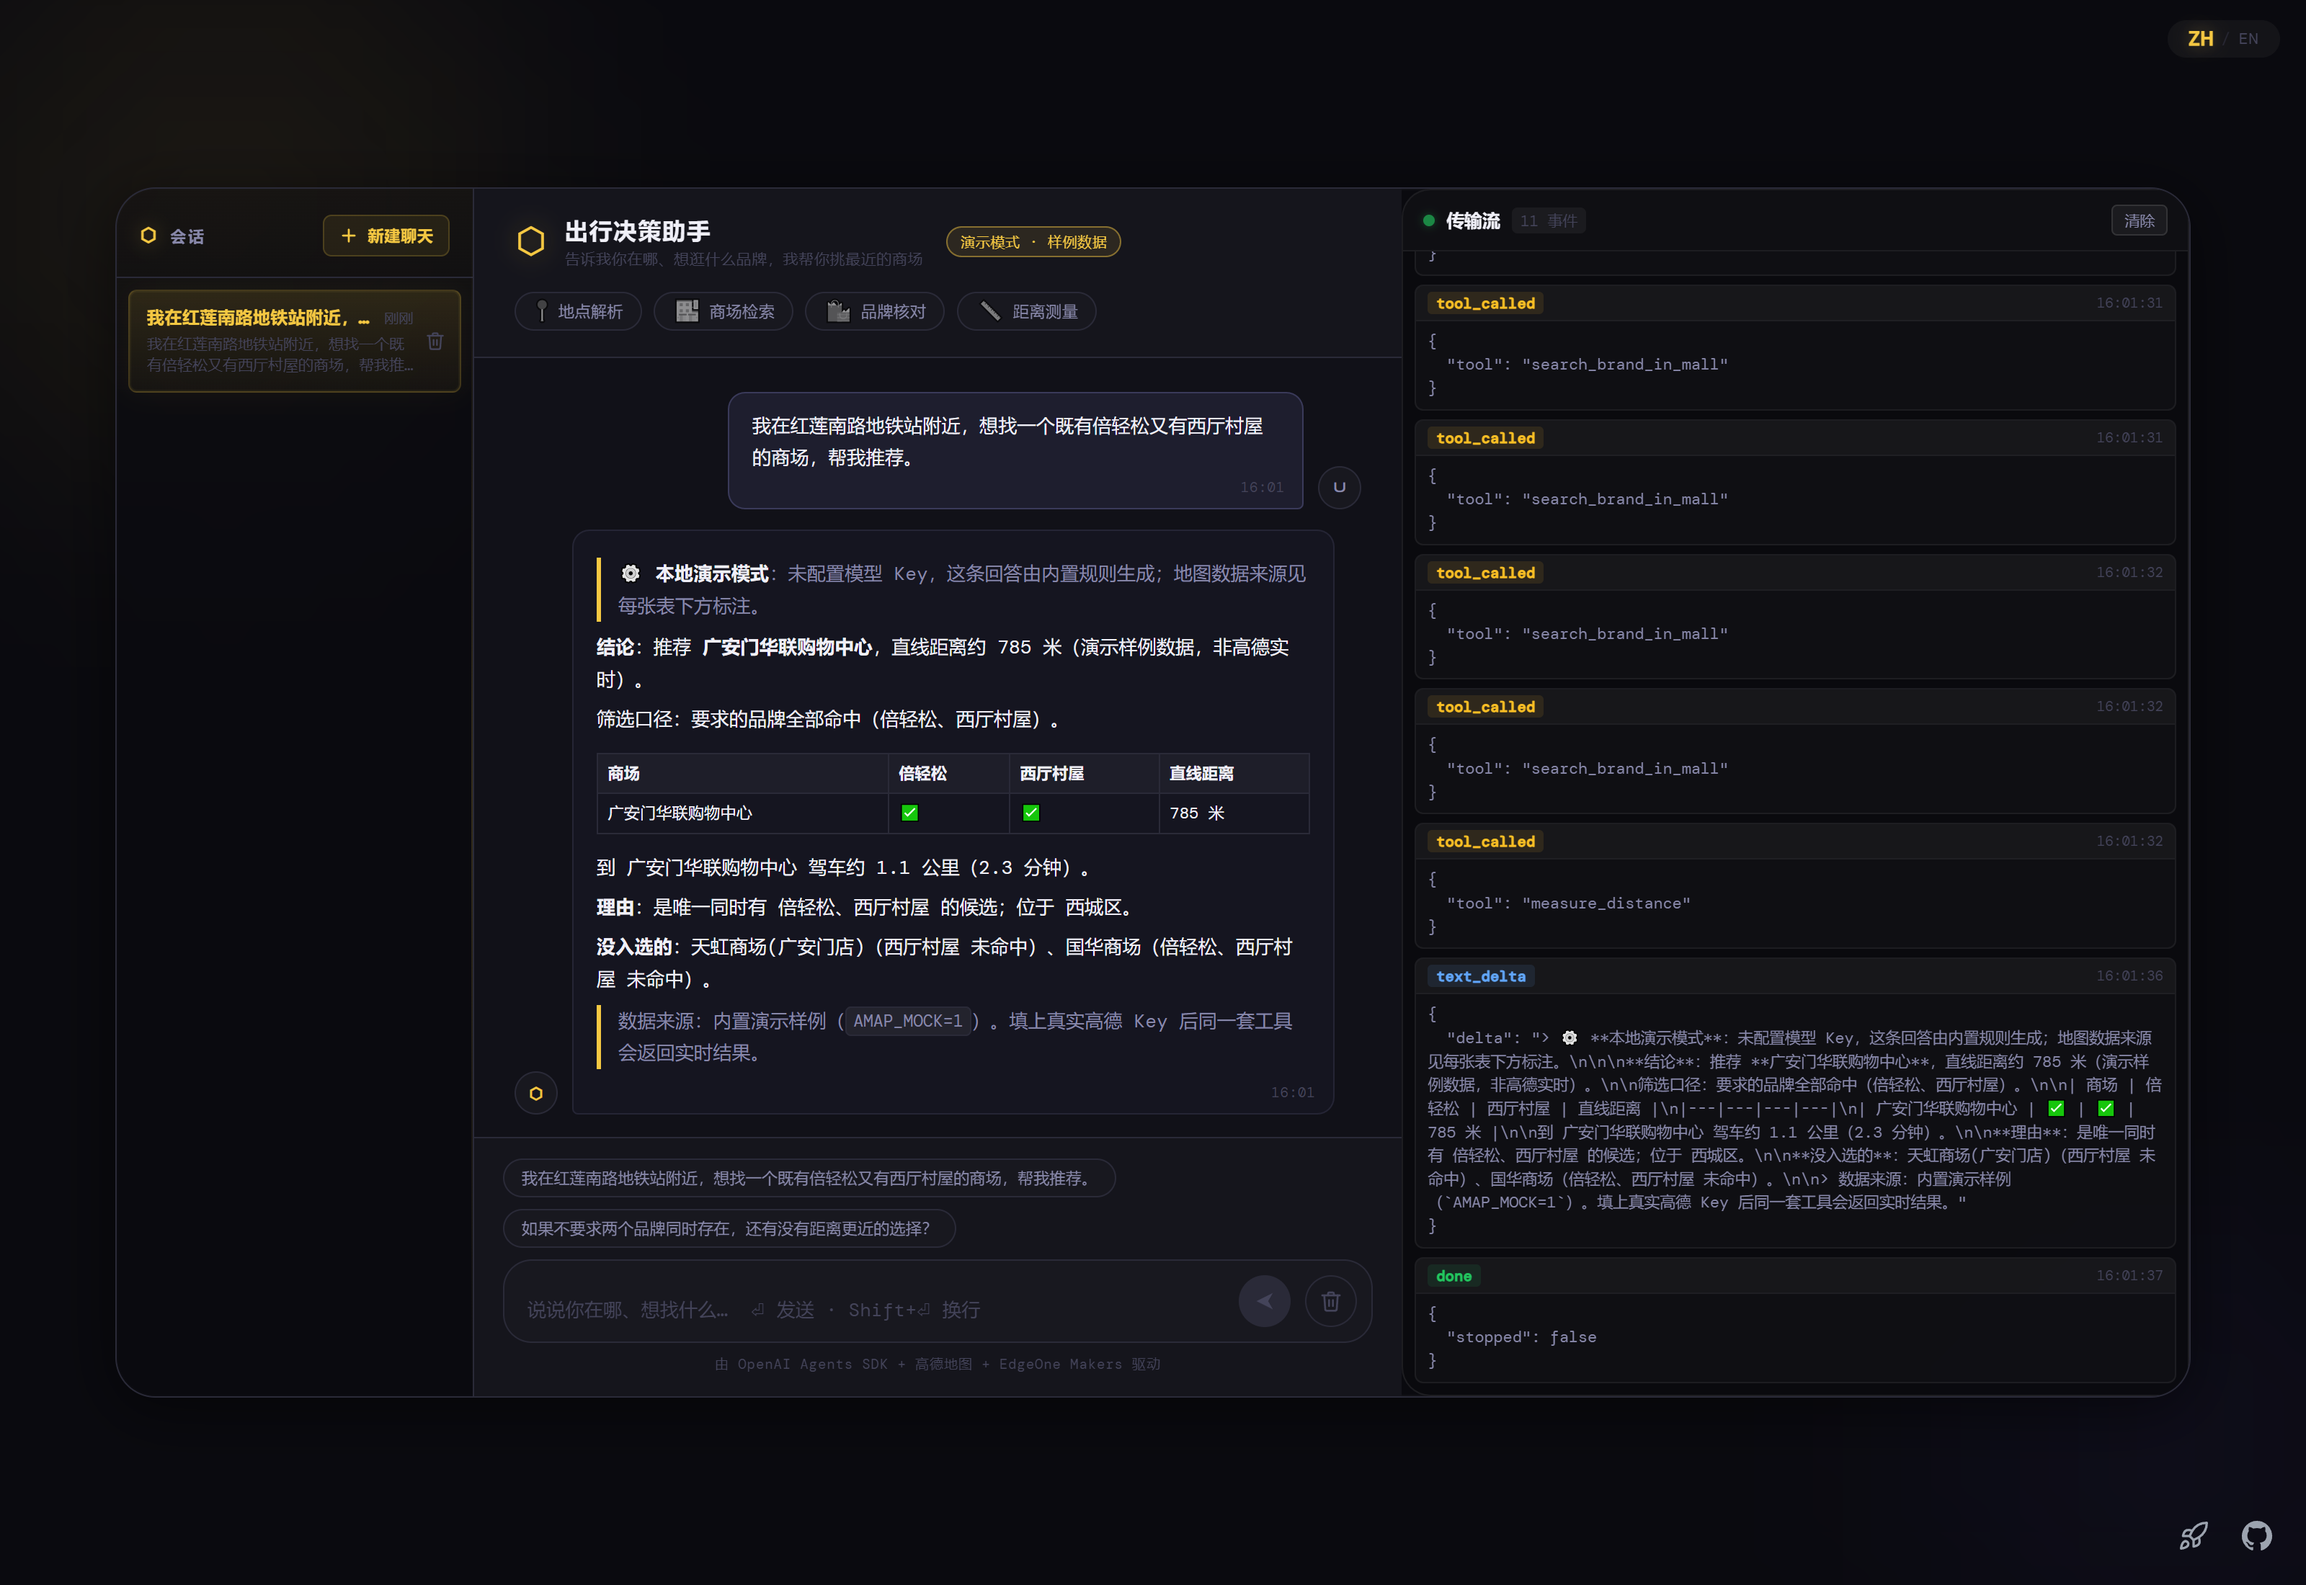
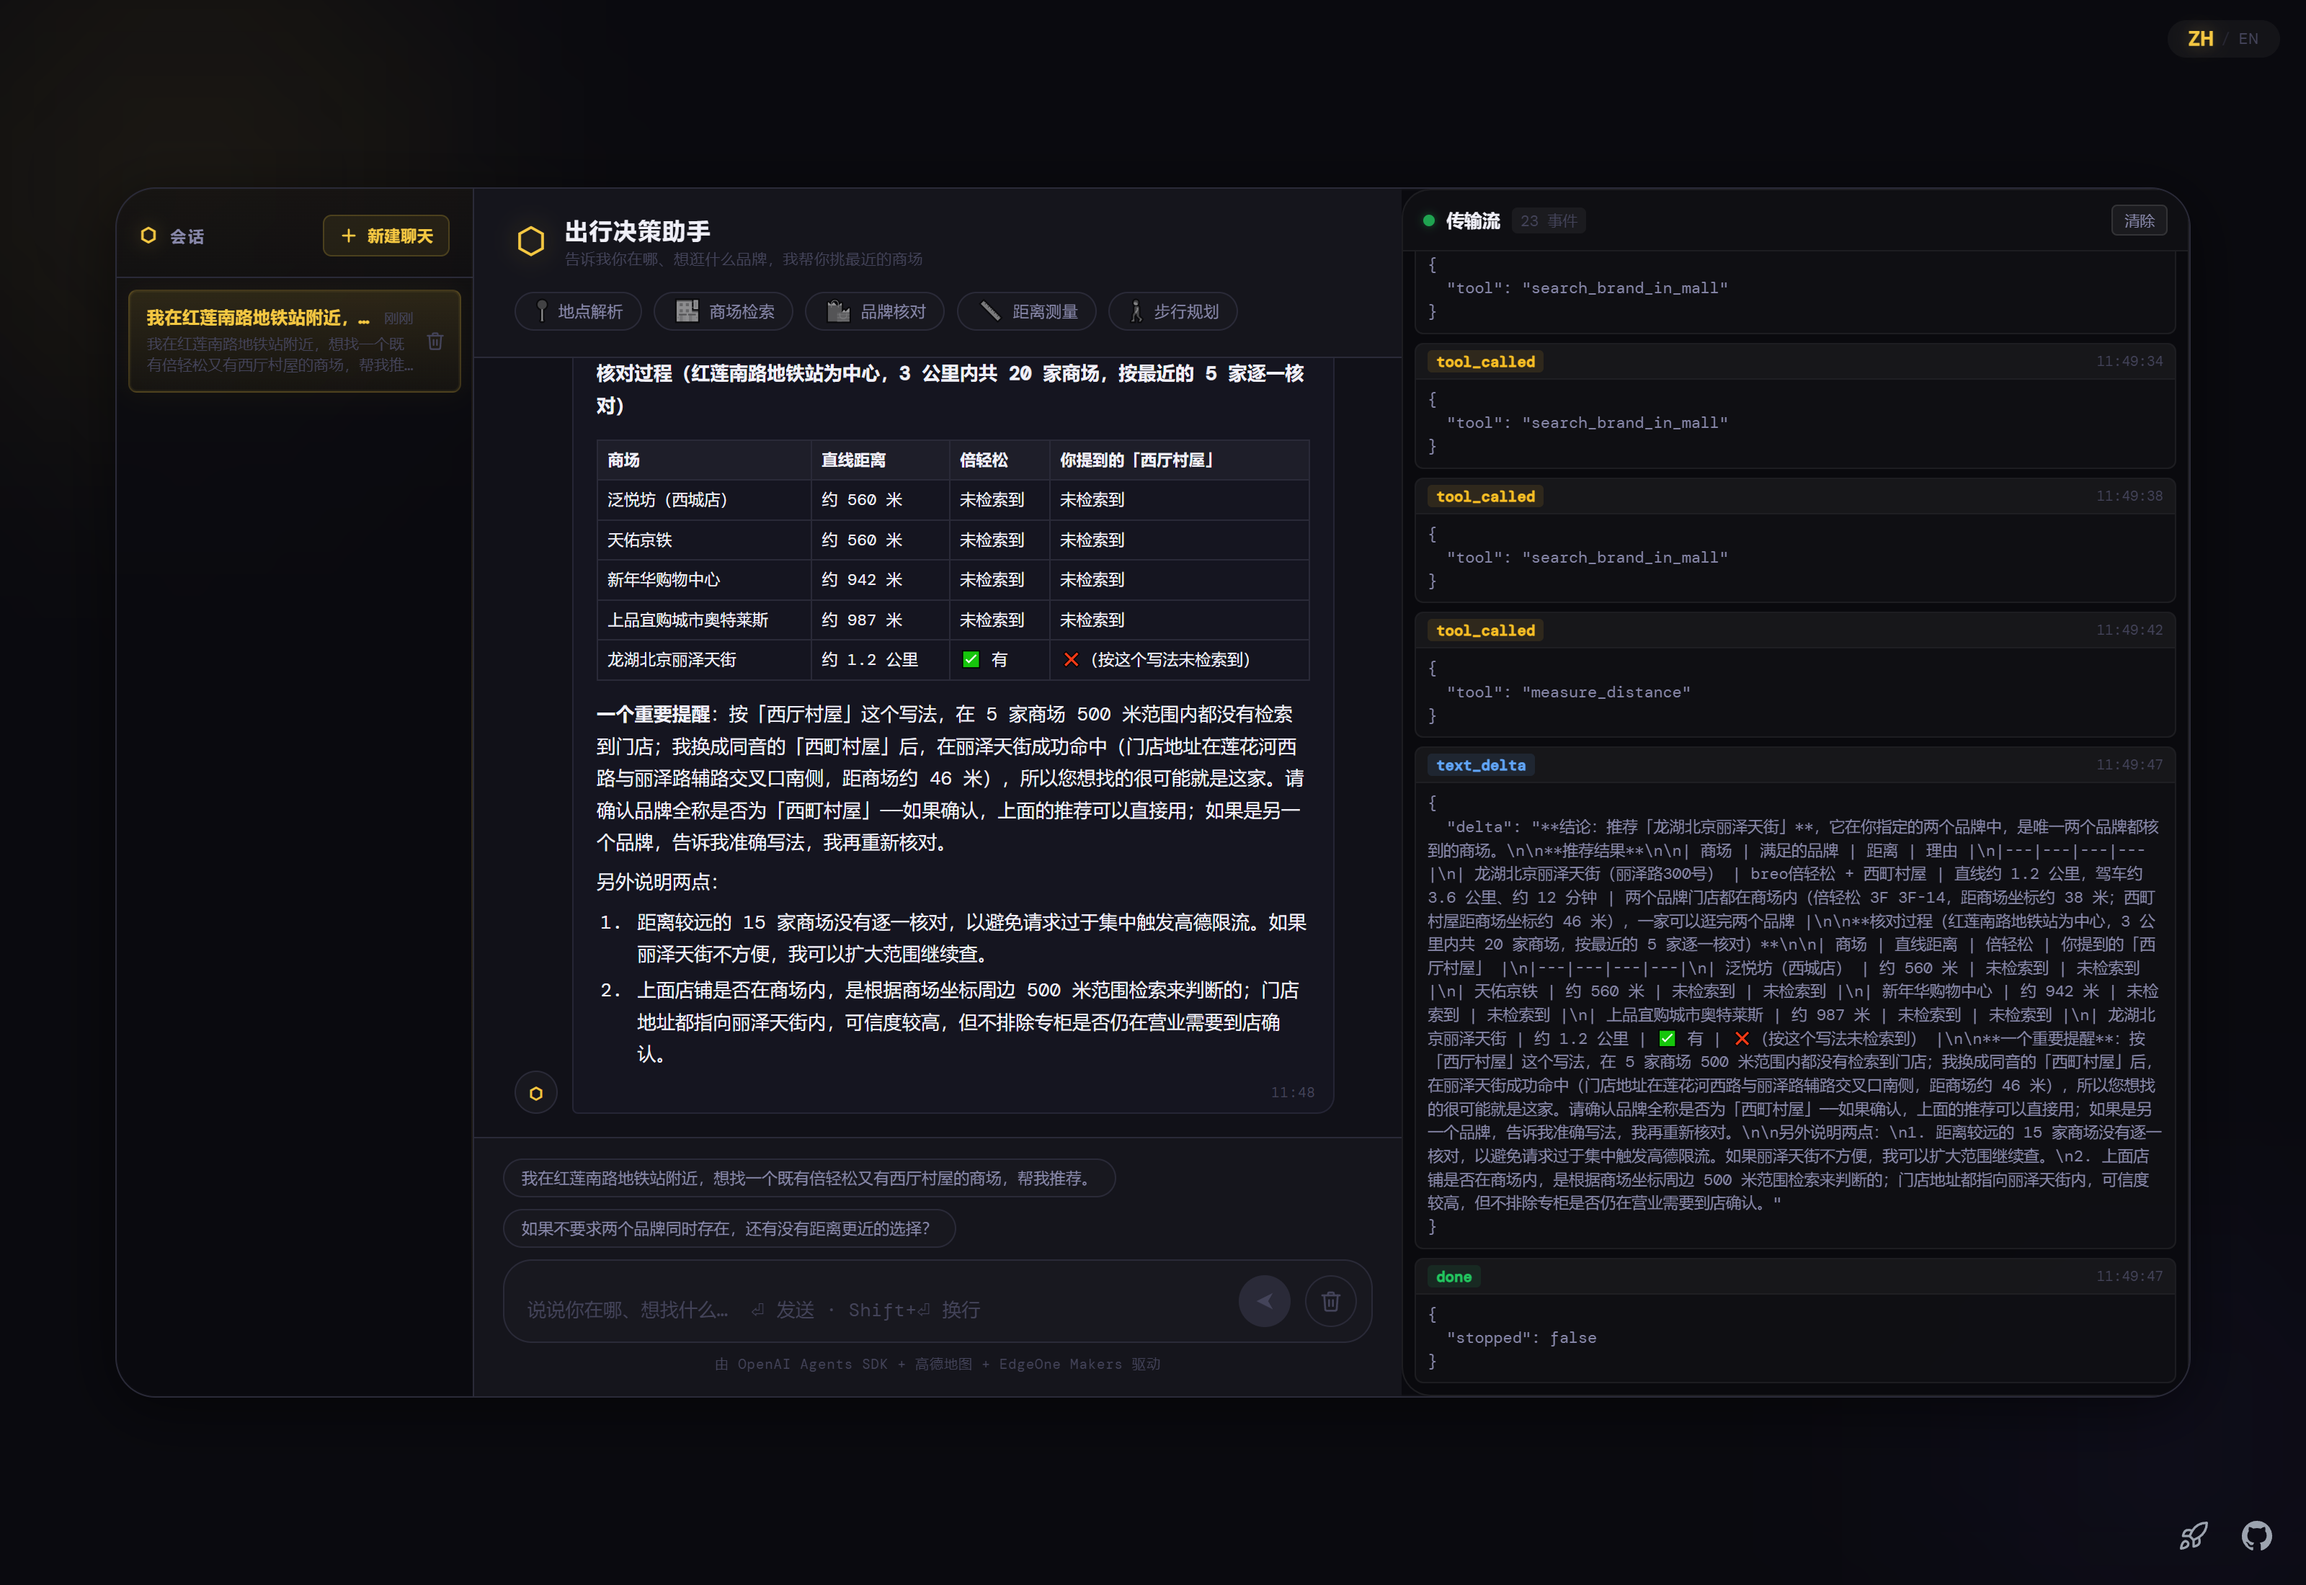
fix: 高德 QPS 节流重试 + 每请求重建模型客户端，真实数据全链路跑通
- agents/_tools.py：全局锁 + 0.36s 最小间隔节流到 ~3 QPS；限流错误码指数退避重试 3 次
- agents/chat/index.py：AsyncOpenAI 客户端改为每请求重建（修复本地多请求 'Event loop is closed'）；max_turns 10→40；提示词约束候选商场只核对最近 5 家
- 真实高德 Key + 真实模型验证：两场景全通，多轮记忆正常，步行规划生效（丽泽天街步行约 1867 米/25 分钟）
- submission/：三张正式截图 + answers.txt 重出（无演示标注，真实商场数据）

Changed region(s): [[0.25, 0.1855, 0.5625, 0.68], [0.625, 0.4327, 0.9375, 0.7727], [0.625, 0.1855, 0.6875, 0.4018]]

diff --git a/agents/_tools.py b/agents/_tools.py
@@ -18,6 +18,7 @@ Agent Tools — 出行决策 Agent 的地图工具集
 import asyncio
 import json
 import os
+import time
 from typing import Annotated
 
 import httpx
@@ -44,6 +45,19 @@ MALL_TYPES = "060100"
 # 演示模式每次工具的假延迟（秒）：让前端的"工具灯牌依次点亮"看得出先后顺序
 MOCK_LATENCY = 0.25
 
+# ---------- 高德 QPS 保护 ----------
+# 个人开发者 Key 的搜索类接口并发上限只有约 3 QPS；而模型经常一次并行发起
+# 十几个品牌核对请求，直接触发 CUQPS_HAS_EXCEEDED_THE_LIMIT。
+# 对策：
+#   1. 全局锁 + 最小间隔，把所有对高德的请求串行化并节流到 ~3 QPS 以内；
+#   2. 命中限流错误码时按指数退避自动重试，对上层（模型）完全透明。
+AMAP_MIN_INTERVAL = 0.36  # 秒，约 2.8 QPS，留一点余量
+QPS_RETRY_TIMES = 3       # 限流重试次数
+QPS_RETRY_BASE_DELAY = 1.0  # 首次重试等待（秒），之后 ×2
+
+_amap_lock = asyncio.Lock()
+_last_request_at = 0.0
+
 # 识别为"已配置"的占位值，避免把模板里的假 Key 当成真的
 PLACEHOLDER_KEYS = {"", "your-api-key", "your_key", "sk-xxx", "xxx"}
 
@@ -63,28 +77,50 @@ def _api_key() -> str:
 
 
 async def _call(path: str, params: dict) -> dict:
-    """异步调用高德接口并统一处理业务错误码。
+    """异步调用高德接口：全局节流 + 限流自动重试。
 
     高德返回 status=1 表示成功；status=0 时 info 里是错误原因
-    （常见：INVALID_USER_KEY / DAILY_QUERY_OVER_LIMIT / INVALID_PARAMS）。
+    （常见：INVALID_USER_KEY / DAILY_QUERY_OVER_LIMIT / CUQPS_HAS_EXCEEDED_THE_LIMIT）。
 
     AMAP_MOCK=1 时不发请求，改用内置演示数据（见 _fixtures.py），
     返回结构与真实接口一致，只是多一个 `_mock: True` 标记。
     """
+    global _last_request_at
+
     if mock_enabled():
         await asyncio.sleep(MOCK_LATENCY)
         return {**_fixtures.route(path, params), "_mock": True}
 
     payload = {"key": _api_key(), "output": "JSON", **params}
-    async with httpx.AsyncClient(timeout=HTTP_TIMEOUT) as client:
-        resp = await client.get(f"{AMAP_BASE}{path}", params=payload)
-        resp.raise_for_status()
-        data = resp.json()
+    last_info = "UNKNOWN_ERROR"
 
-    if str(data.get("status")) != "1":
-        info = data.get("info", "UNKNOWN_ERROR")
-        raise RuntimeError(f"高德接口返回错误：{info}（infocode={data.get('infocode')}）")
-    return data
+    for attempt in range(QPS_RETRY_TIMES + 1):
+        # 节流：全局锁保证同一时刻只有一个高德请求，且两次请求间隔不小于
+        # AMAP_MIN_INTERVAL。即使模型并行发起 20 个工具调用，这里也会
+        # 自动排成一条 ~3 QPS 的队，而不是冲爆配额。
+        async with _amap_lock:
+            wait = AMAP_MIN_INTERVAL - (time.monotonic() - _last_request_at)
+            if wait > 0:
+                await asyncio.sleep(wait)
+            async with httpx.AsyncClient(timeout=HTTP_TIMEOUT) as client:
+                resp = await client.get(f"{AMAP_BASE}{path}", params=payload)
+                resp.raise_for_status()
+                data = resp.json()
+            _last_request_at = time.monotonic()
+
+        if str(data.get("status")) == "1":
+            return data
+
+        last_info = data.get("info", "UNKNOWN_ERROR")
+        infocode = str(data.get("infocode", ""))
+        throttled = "QPS" in last_info.upper() or "QPS" in infocode.upper()
+        if throttled and attempt < QPS_RETRY_TIMES:
+            await asyncio.sleep(QPS_RETRY_BASE_DELAY * (2**attempt))
+            continue
+        # 非限流错误（Key 无效 / 配额用尽 / 参数错误）立即抛出，不浪费重试
+        raise RuntimeError(f"高德接口返回错误：{last_info}（infocode={data.get('infocode')}）")
+
+    raise RuntimeError(f"高德接口持续限流：{last_info}")
 
 
 def _dump(payload: dict, data: dict | None = None) -> str:

diff --git a/agents/chat/index.py b/agents/chat/index.py
@@ -32,18 +32,6 @@ load_dotenv()
 logger = create_logger("chat")
 
 
-# ========== LLM Model ==========
-llm_client = AsyncOpenAI(
-    api_key=os.getenv("AI_GATEWAY_API_KEY"),
-    base_url=os.getenv("AI_GATEWAY_BASE_URL"),
-)
-
-llm_model = OpenAIChatCompletionsModel(
-    model=os.getenv("AI_GATEWAY_MODEL", "@makers/deepseek-v4-flash"),
-    openai_client=llm_client,
-)
-
-
 # ========== Agent ==========
 INSTRUCTIONS = (
     "你是「出行决策助手」，帮用户在一个位置附近找到满足品牌需求的商场，并给出可解释的推荐。\n"
@@ -52,7 +40,9 @@ INSTRUCTIONS = (
     "1. **定位**：用户给出位置后，先调用 resolve_location 拿到经纬度和城市。用户没说城市就不猜。\n"
     "2. **找商场**：调用 search_nearby_malls，以解析出的坐标为中心检索附近商场。用户有距离偏好时据此调整 radius。\n"
     "3. **核对品牌**：对每个候选商场，逐个品牌调用 search_brand_in_mall。用户要求「既有 A 又有 B」时，"
-    "两个品牌都要查，并且只有两个都 matched=true 才算满足。\n"
+    "两个品牌都要查，并且只有两个都 matched=true 才算满足。"
+    "候选商场超过 5 家时，只核对距离最近的 5 家（回答里说明只核对了最近 5 家），"
+    "避免请求数过多触发高德 QPS 限流。\n"
     "4. **算距离**：需要比较远近或估算通勤时间时调用 measure_distance；用户问「怎么去」「走路要多久」时调用 plan_walking_route，并把步行距离/耗时告诉用户（超过 5 公里时建议改驾车或公交）。\n"
     "5. **推荐**：优先满足品牌条件，其次按距离由近到远排序。给出推荐结论 + 每个候选的关键数据 + 为什么推荐它。\n"
     "\n"
@@ -73,12 +63,28 @@ INSTRUCTIONS = (
     "- 保持简洁，不给无关的寒暄。"
 )
 
-agent = Agent(
-    name="出行决策助手",
-    instructions=INSTRUCTIONS,
-    tools=TRAVEL_TOOLS,
-    model=llm_model,
-)
+
+# ========== LLM Model ==========
+# 注意：AsyncOpenAI 的连接池绑定在创建它的事件循环上。本地运行时（local_dev.py）
+# 每个请求一个新事件循环，模块级单例会在第二个请求时报 "Event loop is closed"。
+# 因此这里只在模块级保存配置，客户端与 Agent 在每次请求时重新构建，
+# 对平台运行时（单循环）也没有额外负担。
+def _build_agent() -> Agent:
+    """按当前请求的事件循环构建一个全新的模型客户端和 Agent。"""
+    llm_client = AsyncOpenAI(
+        api_key=os.getenv("AI_GATEWAY_API_KEY"),
+        base_url=os.getenv("AI_GATEWAY_BASE_URL"),
+    )
+    llm_model = OpenAIChatCompletionsModel(
+        model=os.getenv("AI_GATEWAY_MODEL", "@makers/deepseek-v4-flash"),
+        openai_client=llm_client,
+    )
+    return Agent(
+        name="出行决策助手",
+        instructions=INSTRUCTIONS,
+        tools=TRAVEL_TOOLS,
+        model=llm_model,
+    )
 
 
 # ========== SSE Helper ==========
@@ -98,7 +104,7 @@ async def _event_stream(
     Accepts cancel_signal to enable cancellation — when set,
     the loop breaks and the SDK releases its connection.
     """
-    result = Runner.run_streamed(agent, input=message, session=session)
+    result = Runner.run_streamed(_build_agent(), input=message, session=session, max_turns=40)
 
     async for event in result.stream_events():
         # Check cancel between each event
